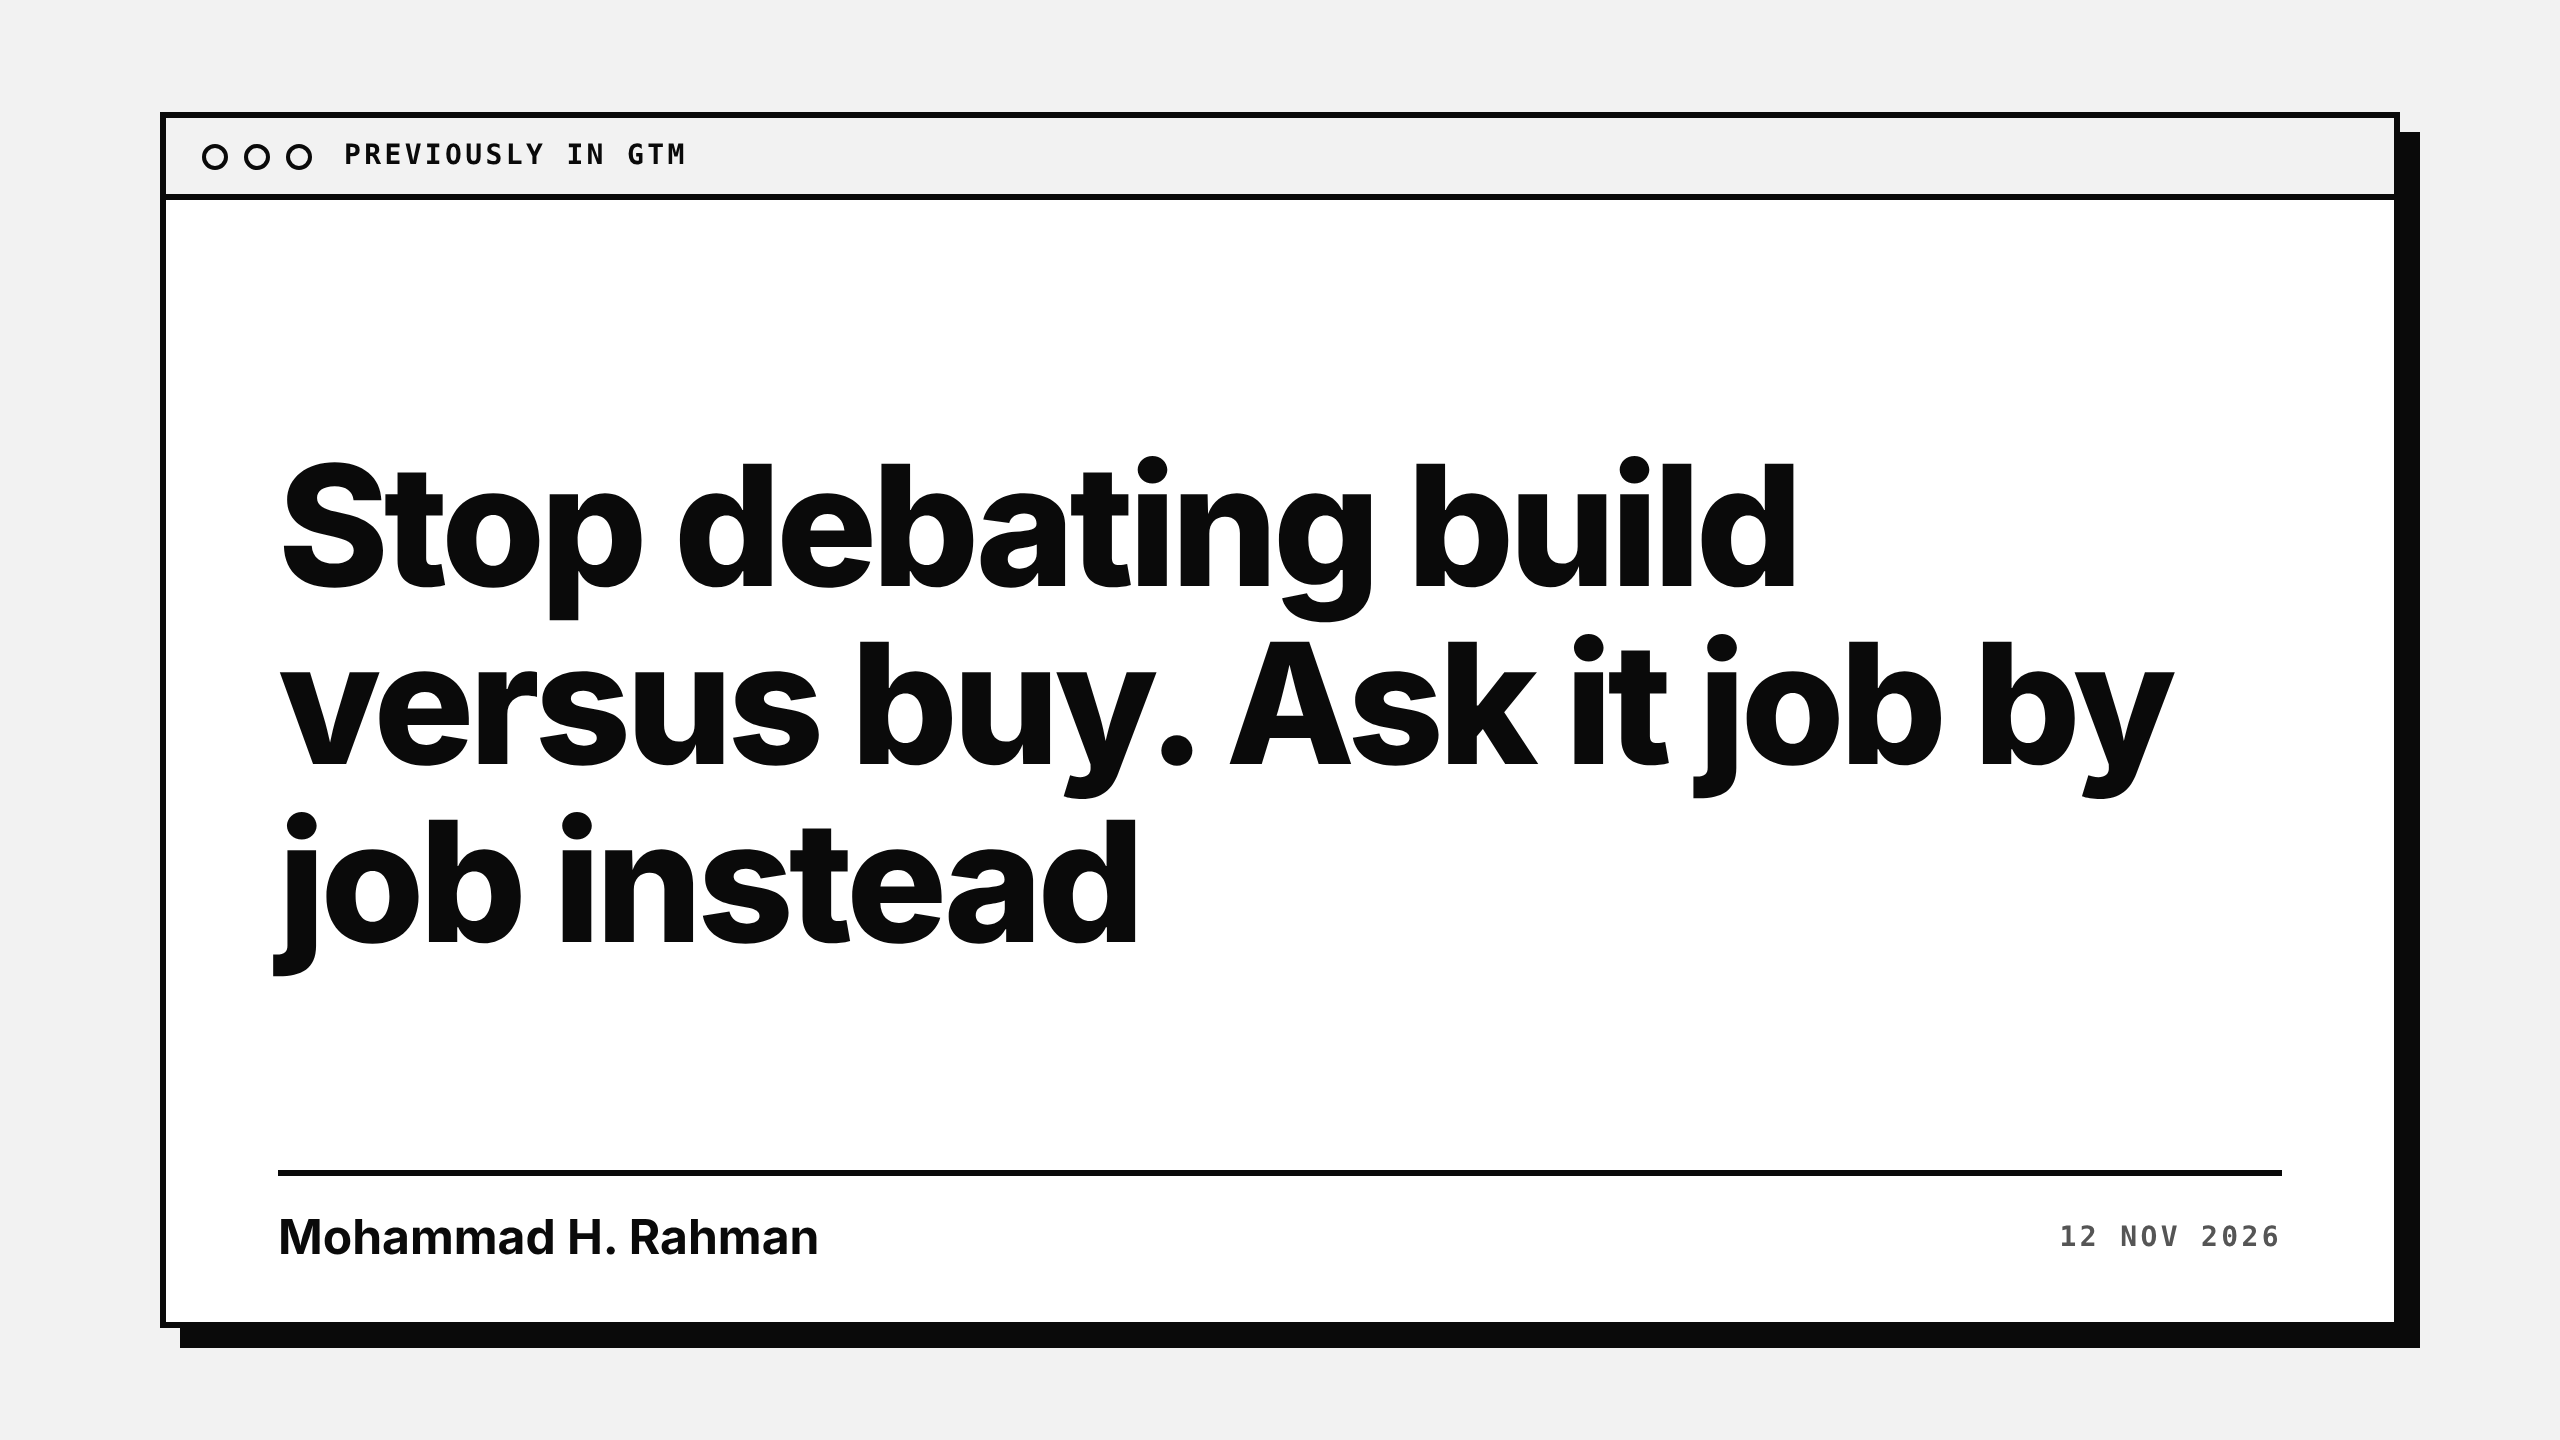
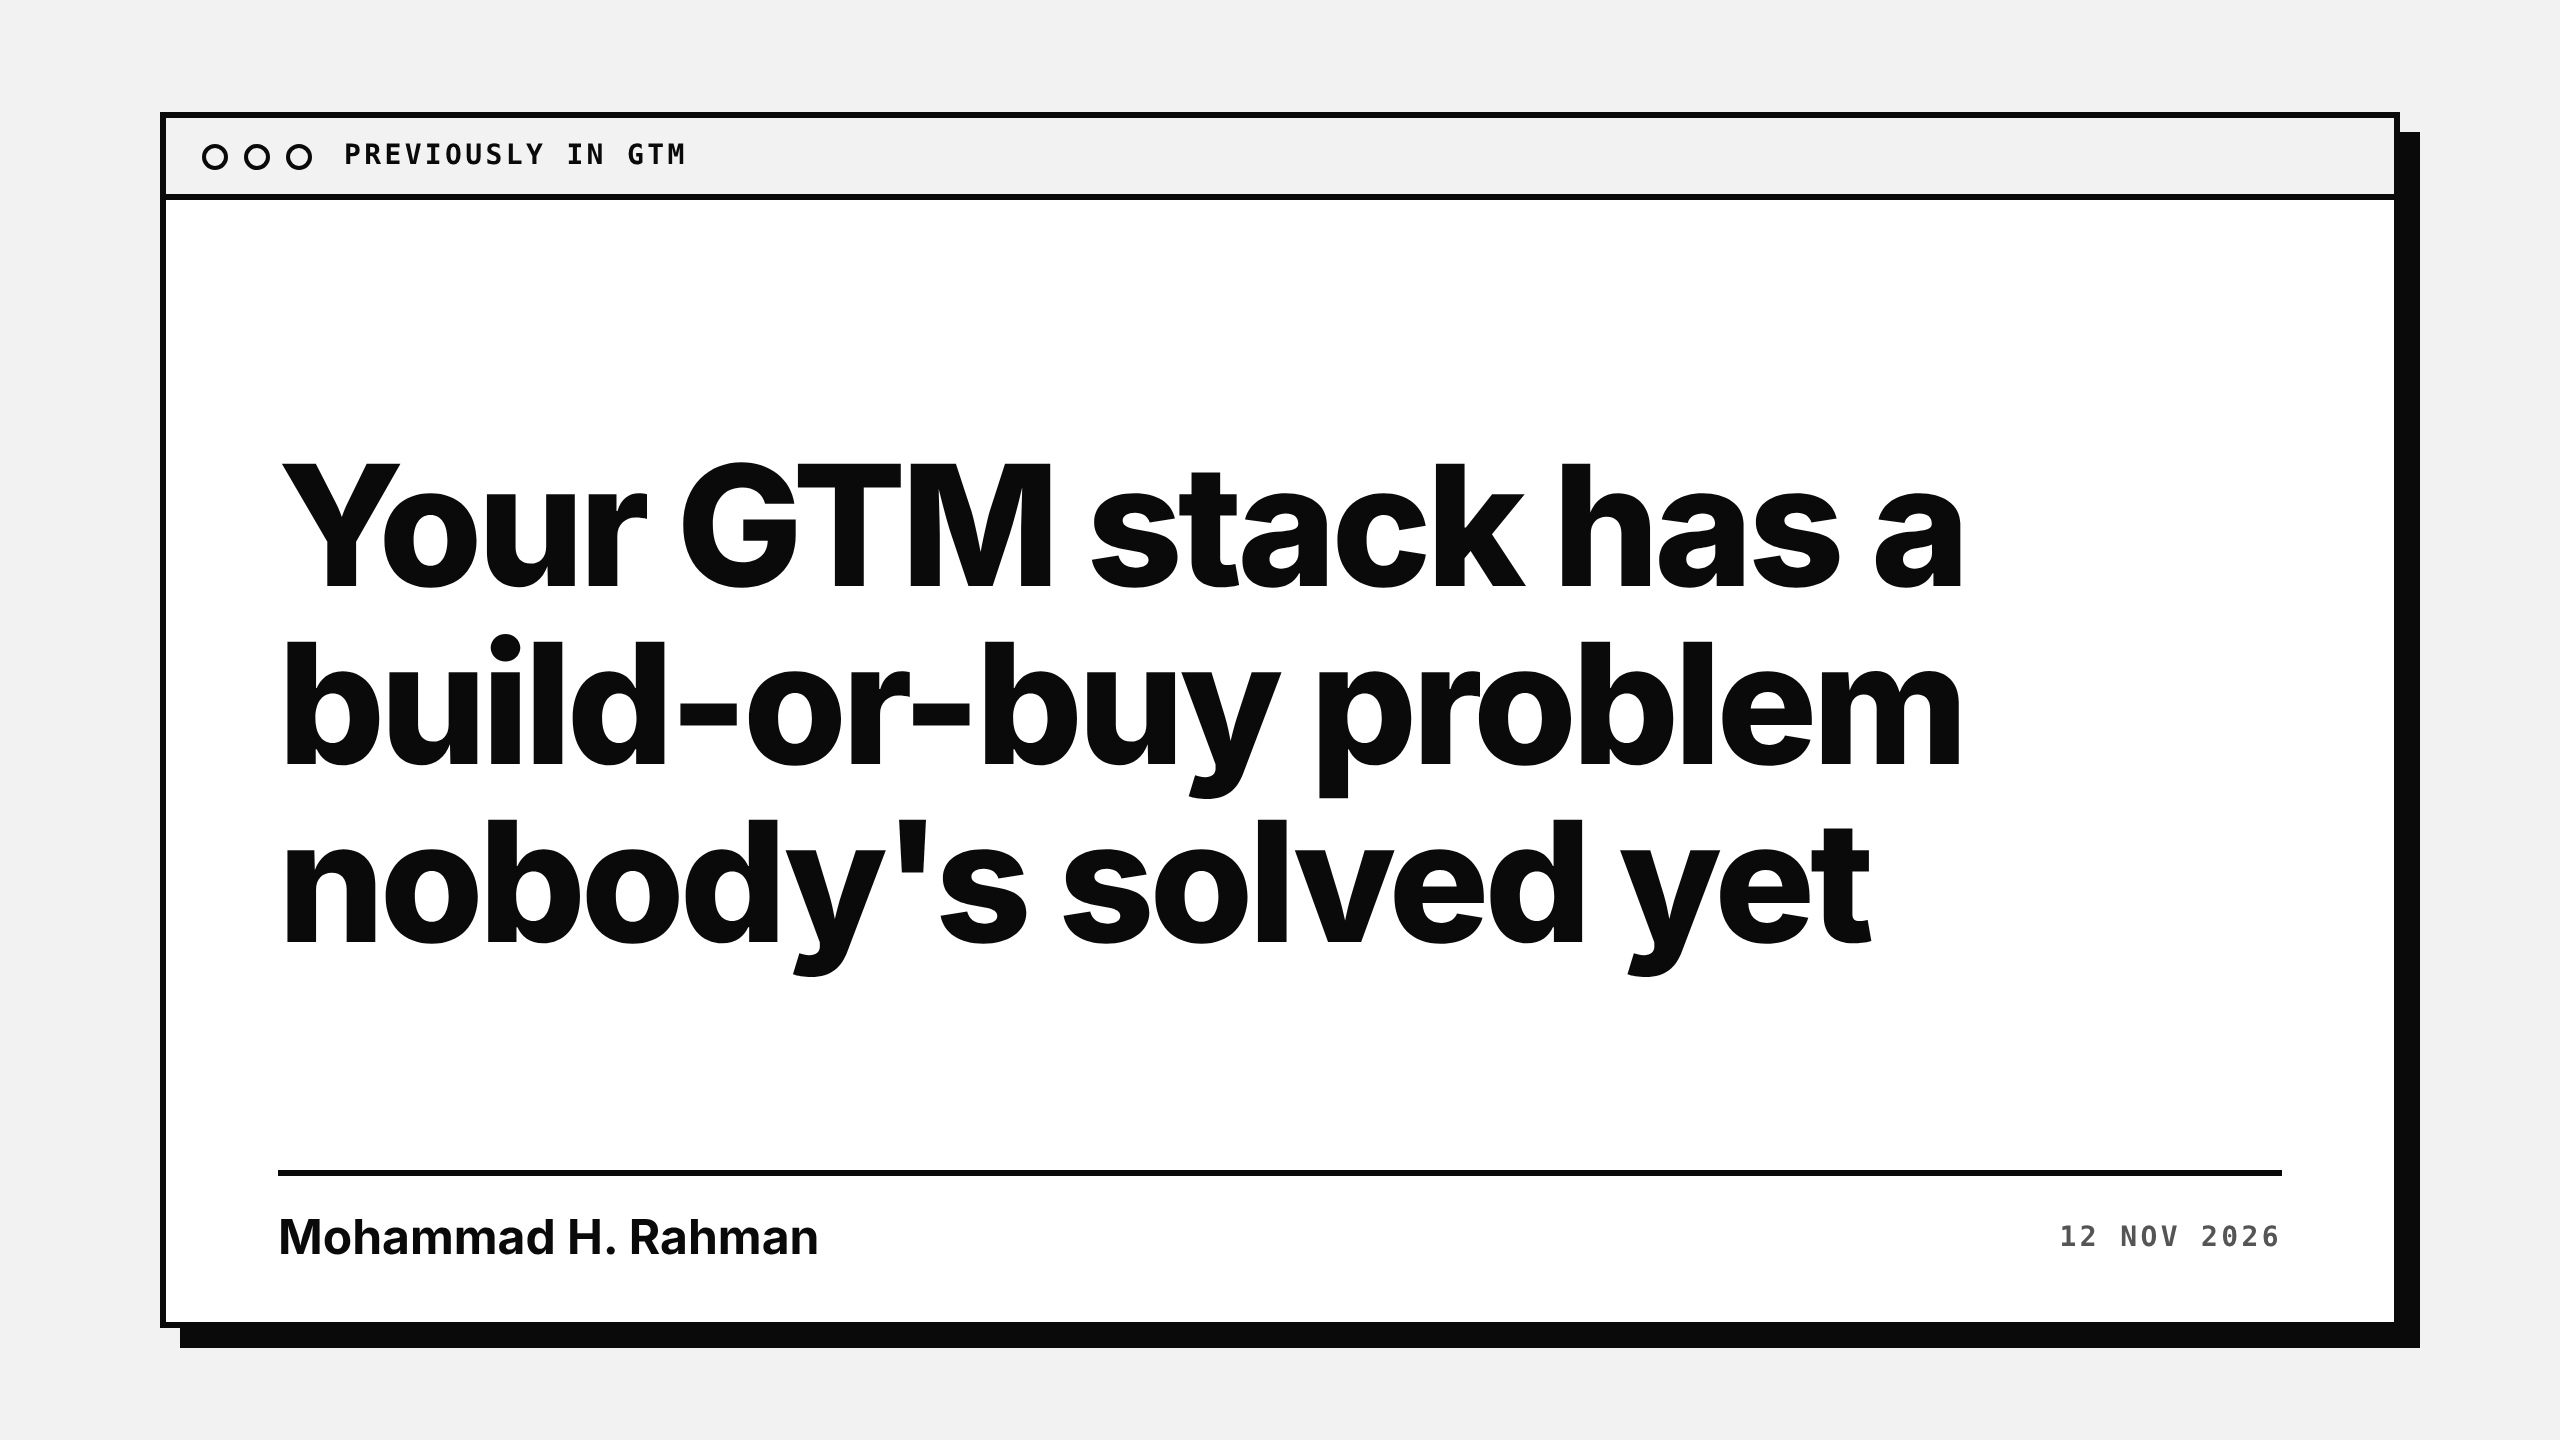
Retitle 12 Nov issue per Mohammad's pick
Swap the headline to the punchier title Mohammad chose and rebuild
the cover images so they match.

Claude-Session: https://claude.ai/code/session_01MJgHR9heDRLqgVrpnTLnyi

Changed region(s): [[0.0938, 0.3125, 0.8438, 0.6875], [0.0938, 0.6562, 0.125, 0.6875], [0.0938, 0.5625, 0.125, 0.5938]]

diff --git a/newsletter-drafts/2026-11-12/design-bw/newsletter-bw.html b/newsletter-drafts/2026-11-12/design-bw/newsletter-bw.html
@@ -1,4 +1,4 @@
-<title>Build Versus Buy Job By Job Draft</title>
+<title>Build Or Buy Problem Draft</title>
 <meta name="claude:viewport-fit-sides" content="cover">
 <link rel="stylesheet" href="https://fonts.googleapis.com/css2?family=Inter:wght@400;600;800&family=JetBrains+Mono:wght@500;700&display=swap">
 <style>
@@ -44,7 +44,7 @@ figure img{display:block;width:100%;height:auto;background:#fff}
 <div class="wrap">
 <div class="mast"><div class="top"><span class="dots"><i></i><i></i><i></i></span><span class="mono">newsletter / long read</span></div>
 <div class="name">PREVIOUSLY IN GTM</div><div class="tag">A weekly read for founders, GTM leaders and growth marketers.</div></div>
-<h1 id="headline">Stop debating build versus buy. Ask it job by job instead</h1>
+<h1 id="headline">Your GTM stack has a build-or-buy problem nobody's solved yet</h1>
 <p class="stand">A read on the test that decides whether a new tool earns a seat in your go to market stack, and the habit that quietly wastes the most money in it.</p>
 <div class="by mono"><span>By Mohammad H. Rahman &nbsp;|&nbsp; 12 Nov 2026</span></div>
 <article id="art"><p><em>By Mohammad H. Rahman</em></p>

diff --git a/newsletter-drafts/2026-11-12/design-bw/images/src/cover.html b/newsletter-drafts/2026-11-12/design-bw/images/src/cover.html
@@ -15,7 +15,7 @@ h1{font-size:68px;line-height:1.08;font-weight:800;letter-spacing:-.025em;max-wi
 .by{position:absolute;left:56px;bottom:36px;right:56px;display:flex;justify-content:space-between;align-items:center;border-top:2px solid var(--g2);padding-top:18px}
 .by b{font-size:24px}
 </style></head><body><div class="win"><div class="bar"><div class="dots"><i></i><i></i><i></i></div><span class="mono" style="color:var(--g4)">PREVIOUSLY IN GTM / long read</span></div>
-<div class="in"><h1>Stop debating build versus buy. Ask it job by job instead</h1>
+<div class="in"><h1>Your GTM stack has a build-or-buy problem nobody's solved yet</h1>
 <div class="sub">The test that decides whether a new tool earns a seat in your go to market stack.</div>
 <div class="by"><b>Mohammad H. Rahman</b><span class="mono" style="color:var(--g3)">Job / Checkable / Compounding / Headcount</span></div></div></div>
 </body></html>

diff --git a/newsletter-drafts/2026-11-12/03-article-linkedin.html b/newsletter-drafts/2026-11-12/03-article-linkedin.html
@@ -1,4 +1,4 @@
-<p><em>[Image 1: header-cover.png. Upload from the images folder. Alt text: Cover: Stop debating build versus buy. Ask it job by job instead, black type on white with a window bar]</em></p>
+<p><em>[Image 1: header-cover.png. Upload from the images folder. Alt text: Cover: Your GTM stack has a build-or-buy problem nobody's solved yet, black type on white with a window bar]</em></p>
 <p><em>A read on the test that decides whether a new tool earns a seat in your go to market stack, and the habit that quietly wastes the most money in it.</em></p>
 <p><em>By Mohammad H. Rahman</em></p>
 <p><strong>Most founders running go to market in house are not short of tools. They are short of a reason to say no to the next one.</strong> A RevOps job posting from RingCentral names its actual working stack in plain text.</p>

diff --git a/newsletter-drafts/2026-11-12/design-bw/images/src/header-cover.html b/newsletter-drafts/2026-11-12/design-bw/images/src/header-cover.html
@@ -11,6 +11,6 @@ h1{font-size:84px;line-height:1.06;font-weight:800;letter-spacing:-.03em;max-wid
 .by{position:absolute;left:56px;right:56px;bottom:28px;display:flex;justify-content:space-between;align-items:center;border-top:3px solid var(--k);padding-top:16px}
 .by b{font-size:24px}
 </style></head><body><div class="win"><div class="bar"><div class="dots"><i></i><i></i><i></i></div><span class="mono" style="color:var(--k)">PREVIOUSLY IN GTM</span></div>
-<div class="in"><h1>Stop debating build versus buy. Ask it job by job instead</h1>
+<div class="in"><h1>Your GTM stack has a build-or-buy problem nobody's solved yet</h1>
 <div class="by"><b>Mohammad H. Rahman</b><span class="mono" style="color:var(--g4)">12 Nov 2026</span></div></div></div>
 </body></html>

diff --git a/newsletter-drafts/2026-11-12/design-bw/images/src/header-cover@2x.html b/newsletter-drafts/2026-11-12/design-bw/images/src/header-cover@2x.html
@@ -11,6 +11,6 @@ h1{font-size:84px;line-height:1.06;font-weight:800;letter-spacing:-.03em;max-wid
 .by{position:absolute;left:56px;right:56px;bottom:28px;display:flex;justify-content:space-between;align-items:center;border-top:3px solid var(--k);padding-top:16px}
 .by b{font-size:24px}
 </style></head><body><div class="win"><div class="bar"><div class="dots"><i></i><i></i><i></i></div><span class="mono" style="color:var(--k)">PREVIOUSLY IN GTM</span></div>
-<div class="in"><h1>Stop debating build versus buy. Ask it job by job instead</h1>
+<div class="in"><h1>Your GTM stack has a build-or-buy problem nobody's solved yet</h1>
 <div class="by"><b>Mohammad H. Rahman</b><span class="mono" style="color:var(--g4)">12 Nov 2026</span></div></div></div>
 </body></html>

diff --git a/newsletter-drafts/2026-11-12/04-image-manifest.md b/newsletter-drafts/2026-11-12/04-image-manifest.md
@@ -6,7 +6,7 @@ Built by `tools/newsletter-design/build.py` from `issue.json`, black, white and 
 
 | File | Size | Placement | Alt text (under 125 characters) | Suggested caption |
 |---|---|---|---|---|
-| `header-cover.png` (and `header-cover-2x.png`, 2560 x 1440) | 1280 x 720 | IMAGE 1: LinkedIn article cover. Shows only PREVIOUSLY IN GTM, Mohammad H. Rahman, 12 Nov 2026 and the title | Cover: Stop debating build versus buy. Ask it job by job instead, black type on white with a window bar | None needed on a cover. |
+| `header-cover.png` (and `header-cover-2x.png`, 2560 x 1440) | 1280 x 720 | IMAGE 1: LinkedIn article cover. Shows only PREVIOUSLY IN GTM, Mohammad H. Rahman, 12 Nov 2026 and the title | Cover: Your GTM stack has a build-or-buy problem nobody's solved yet, black type on white with a window bar | None needed on a cover. |
 | `insight-card.png` | 1200 x 628 | IMAGE 2: after the ZoomInfo versus Clay contract paragraph | Large stat: Claude named by 110 respondents as the most impactful GTM tool, more than 3x the next vendor, per Growth Unhinged | Growth Unhinged, 2026 State of B2B GTM report, 300 respondents. Self-reported, not audited. |
 | `quote-card.png` | 1200 x 628 | IMAGE 3: after the four renewal questions, before the lead routing paragraph | Quote card: The vendors sell the stopwatch, not the time, attributed to Marty Berman, GTM Tool Time | Marty Berman, GTM Tool Time, "Lead Routing, Reviewed." |
 | `framework.png` | 1200 x 628 | IMAGE 4: after the lead routing paragraph, closing the renewal-test section | Four boxes in order: Job, Checkable, Compounding and Headcount, each with the question to ask | Four questions before a tool earns a seat. |

diff --git a/newsletter-drafts/2026-11-12/02-article.md b/newsletter-drafts/2026-11-12/02-article.md
@@ -1,8 +1,8 @@
 **DRAFT: pending Remmy review**
 
-[IMAGE 1: header-cover.png, Cover: Stop debating build versus buy. Ask it job by job instead, black type on white with a window bar]
+[IMAGE 1: header-cover.png, Cover: Your GTM stack has a build-or-buy problem nobody's solved yet, black type on white with a window bar]
 
-# Stop debating build versus buy. Ask it job by job instead
+# Your GTM stack has a build-or-buy problem nobody's solved yet
 
 *A read on the test that decides whether a new tool earns a seat in your go to market stack, and the habit that quietly wastes the most money in it.*
 
